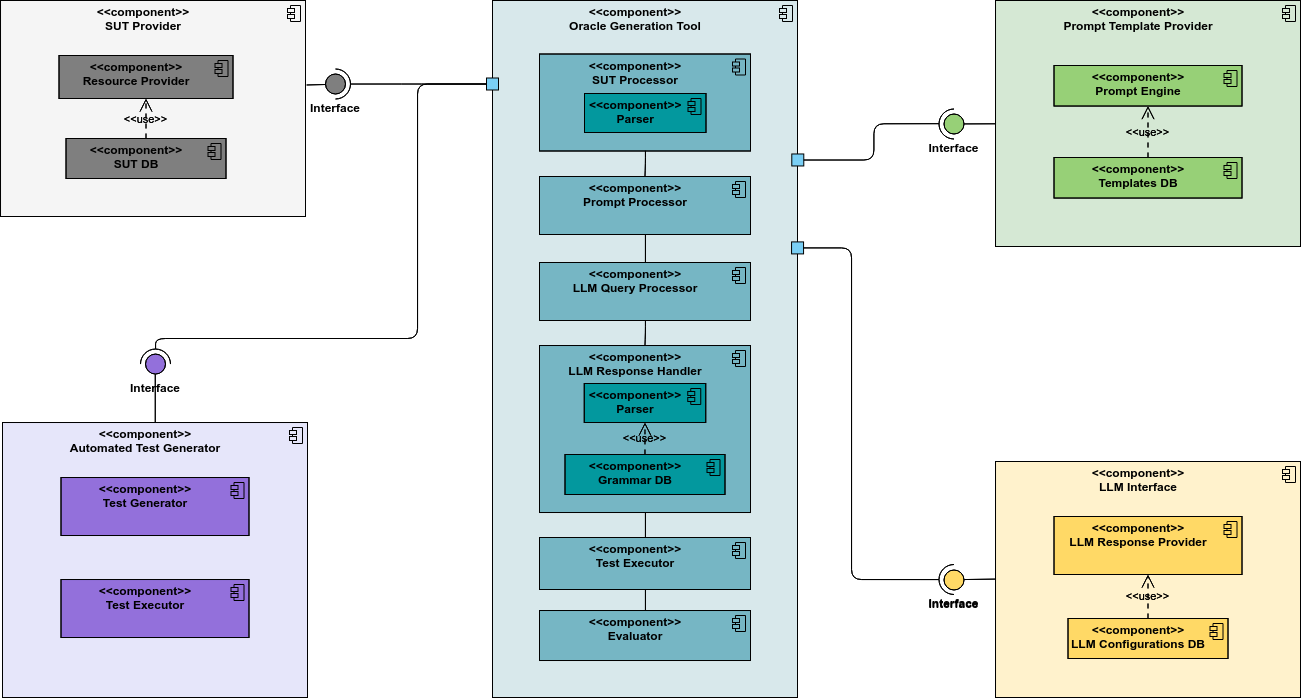
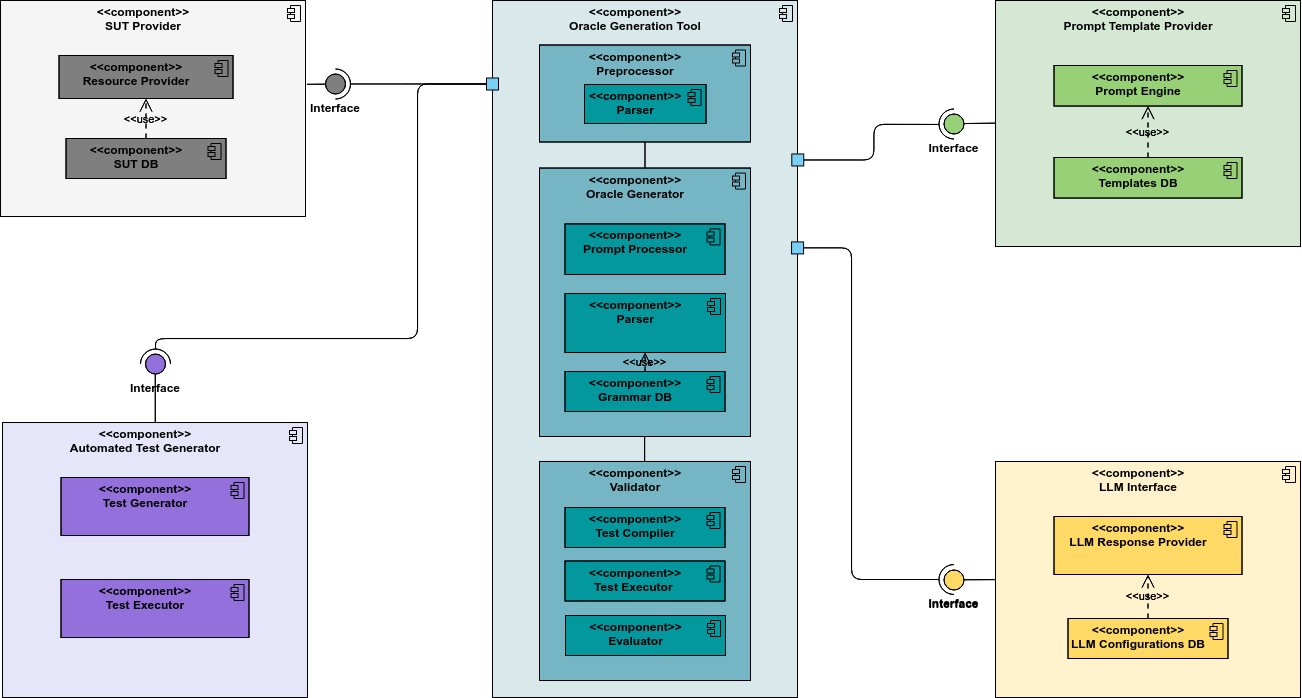
added approach;

diff --git a/llms_for_oracles.tex b/llms_for_oracles.tex
@@ -2,54 +2,140 @@
 \label{cha:evoOracles}
 \vspace{0.4 cm}
 
-In this chapter, we introduce EvoOracle, our approach designed for potential oracle generation using Large Language Models and outline its design. To initiate the process, it requires some preprocessing, including analyzing projects, parsing source code, and extracting the necessary information for use in the generation process. The focal method needs to pass through the tool's components to generate a correct Oracle. The components of EvoOracle and the process overview will be described in the following sections.
+In this chapter, we introduce EvoOracle, our proposed approach designed for potential oracle generation using Large Language Models and describe how the components of the approach have been implemented. 
 
-\section{Components of EvoOracle}
-\label{sec:components}
+\section{Proposed Approach}
+\label{sec:approach}
 \vspace{0.2 cm}
-EvoOracle is designed with a some components what work together to to generate test cases and test Oracles for a given projects. Figure~\ref{fig:evooracle_overview} provides an overview of EvoOracle's key components. Each of the components are explained in details below:
 
-\begin{enumerate}
-    \item \textbf{SUT Processor:} This component takes the SUT and performs analysis on the code by parsing it. Also, it prepares a dataset of all the metadata of the project by mapping all the classes, methods, arguments, code comments etc all the relevant information. Later, it also removes assertions from the test cases and substitutes them with placeholders. 
-    
-    \item \textbf{Automated Test Generator:} This component generates the test suite for each target class based on the specified criterion like line coverage, branch coverage etc, configuration and budget.
-    
-    \item \textbf{Prompt Processor:} Prompt Processor component takes these test cases, now equipped with placeholders and focal methods, and formulates context for LLM prompting.
-    
-    \item \textbf{LLM Query Processor:} The LLM Query Processor component utilizes this context to prompt the LLMs using the LLM interface, later, passing the generated responses to the LLM Response Handler component.
-    
-    \item \textbf{LLM Interface:} The LLM interface provides supports for services from the LLMs. This interface can be connected with models or APIs.
-    
-    \item \textbf{LLM Response Handler:}
-    
-    \item \textbf{Test Executor:} Test Executor compiles and executes the test cases.
-    
-    \item \textbf{Evaluator:} This component follows heuristics to evaluate the quality of the generated tests. Firstly, it checks if the generated test case is syntactically correct. Secondly, it check if the test compiles. Finally, it checks if the test runs without any errors. This is already an indication that the candidate tests are good enough. Another criteria is to run mutation testing on the generated tests.
-\end{enumerate}
+To commence the procedure, EvoOracle necessitates an initial preprocessing phase, which encompasses project analysis, source code parsing, and extraction of essential information essential for the subsequent generation process. The classes and tests undergo a systematic traversal across the tool's integrated components to yield an accurate Oracle. EvoOracle's architecture incorporates several interworking components that collaboratively generate test cases and oracles for designated projects. The illustration in Figure ~\ref{fig:component_diagram} furnishes a comprehensive overview of the key components within EvoOracle. Each of the components are explained in details below:
 
 \begin{figure}[H]
 \centering
 \includegraphics[width=1\textwidth]{images/EvoOracle_ components.png}
-\caption{Components of our proposed tool: EvoOracle}
+\caption{Components of our proposed approach: EvoOracle}
 \label{fig:component_diagram}
 \end{figure}
 
-\section{Workflow}
-\label{sec:workflow}
-\vspace{0.2 cm}
+\begin{enumerate}
+    \item \textbf{Preprocessor:} The Preprocessor is a fundamental component that analyzes the System Under Test (SUT) by parsing its code. It systematically examines each project, extracting vital details about classes and methods, along with their associated metadata. Additionally, the component identifies and establishes connections with test classes generated by the automated test generation component. It facilitates mapping each test case within a test class to the corresponding focal method. The preprocessor incorporates a parser component, which plays a pivotal role in extracting metadata linked to identified classes and methods. By traversing the project folder and locating source files, the parser parses each class file into an Abstract Syntax Tree (AST). This process collects essential information such as class names, signatures, superclasses, bodies, annotations, interfaces, package details, imports, fields, arguments list, constructors, dependencies and variables, method names, return types, and any developer-written comments. While navigating the AST, EvoOracle gathers information at both class and method levels. This parsed code serves a dual purpose: pinpointing test cases and their corresponding focal methods, and enhancing focal methods by incorporating contextual information.
+    
+    \item \textbf{Oracle Generator:} The Oracle Generator is a critical component responsible for processing test cases generated by the Automated Test Generator. This generator produces a test suite for each target class, considering criteria like line coverage, branch coverage, configuration, and budget. With the inclusion of placeholders and focal methods, it prepares the context for LLM prompting. The Oracle Generator adopts a two-step approach, employing specific heuristics to preprocess test cases. This ensures that the test cases are adequately prepared for assertion generation, following these steps:
 
-To initiate the process, we acquire a dataset of Java projects sourced from GitHub. Employing automated test case generation tools such as EvoSuite and Randoop, we systematically create Automated JUnit Test Cases for each project, laying the foundation for EvoOracle's subsequent operations. The tool begins by extracting metadata linked to the identified classes and methods within each project. Subsequently, it mines test cases and establishes mappings with corresponding focal methods extracted from the earlier project analysis. The SUT (System Under Test) Processor component plays a pivotal role in this phase, removing assertions from the test cases and substituting them with placeholders. Following this, the Prompt Processor component takes these test cases, now equipped with placeholders and focal methods, and formulates context for LLM prompting. The LLM Query Processor component utilizes this context to prompt the LLMs, passing the generated responses to the LLM Response Handler component. This handler, in turn, readies the test cases for execution. Finally, the Test Executor compiles and executes the newly generated tests, completing the comprehensive cycle of EvoOracle's oracle generation process.
+    \begin{enumerate}
+        \item \textbf{Removal of Assertions:} All selected test cases undergo the removal of assertions, retaining only the last assertion in case there are multiple assertions using Algorithm~\ref{algorithm_remove_assertion}. This decision is based on the likelihood that reaching the last assertion implies satisfaction of all preceding assertions. This is a reasonable choice which is also seen in the work of Tufano et al. \cite{tufano_generating_2022}. The purpose is to streamline the test cases for further processing.
 
-designed an adaptive focal context generation mechanism, which generates a context containing as much as necessary information for the focal method, while leaving enough space for ChatGPT to produce complete responses. To tackle the second limitation, we implemented a validation component and a repair component. The validation component includes a parser, compiler, and test executor. The repair component consists of rule-based repair and ChatGPT-based repair. Rule-based repair addresses simple errors such as syntax errors and missing import statements. If rule-based repair fails, ChatUniTest resorts to ChatGPT-based repair. It constructs a prompt with an error message, incorrect unit test, and adaptive focal context to obtain the corrected unit test from ChatGPT. If a test remains unfixed after several validation and repair rounds, it is marked as deprecated.
+        \item \textbf{Placeholder Insertion:} Following the removal of additional assertions, the test cases are left with a single assertion. We replace this single assertion with a placeholder using Algorithm~\ref{algorithm_placeholder_insertion}. This placeholder serves as a temporary marker and will be subsequently replaced with assertions generated by the Large Language Models.
 
-\begin{figure}[H]
+        \item \textbf{Prompt Templates:} This component utilizes prompt templates in creating a focal context tailored for each Class Under Test (CUT) and its corresponding Method Under Test (MUT). These templates serve as the foundation for replacing the contextual placeholders with the specific contexts of interest. This dynamic approach ensures that the LLMs receive targeted and meaningful prompts, enhancing their understanding of the given code context and enabling them to generate assertions with precision.
+
+        \item \textbf{Prompt Generation Algorithm:} To create effective prompts for the Large Language Models, this component gathers information to build the context for a test case that was prepared in the preprocessing phase. This information includes key details about the class under test, methods under test, and various method attributes such as Constructor signature, Class Signature, parameters, Invoked Method Signature, dependencies, return type, developer comments, source code for the test case, package, imports, Fields, and getter/setter signature. We carefully consider all invoked methods and dependencies encapsulated within the test case. To improve the Oracles generated by the automated test generation tools, we propose the inclusion of LLMs into the test generation process. LLM Interface component provides empowers developers to tailor their LLM choices, ensuring compatibility and aligning with their project requirements and provides response. In instances where the LLM response faces challenges such as token limit exceeds, we dynamically adjust the context size. An iterative process is followed as shown in Algorithm~\ref{algorithm_prompt_generation} of generating prompts for the LLM, involving multiple rounds. Each round refines the prompt based on the LLM's response and aims to address potential challenges like token limit exceedance. The trimming process, controlled by conditional statements, adjusts the size of critical elements such as method details and test method code. This adaptive approach ensures that the prompt remains concise while retaining essential contextual information. The code systematically handles different trimming scenarios in each round, progressively refining the prompt to strike a balance between informativeness and LLM response feasibility. The overall mechanism involves generating messages from prompt templates, seeking LLM responses, and dynamically adjusting the prompt for subsequent iterations, all of which contribute to an effective and tailored interaction with the LLM.
+
+        \begin{algorithm}
+        \caption{Algorithm for \texttt{Removing all assertions but last}}
+        \label{algorithm_remove_assertion}
+        \begin{algorithmic}[1]
+        \Function{remove\_all\_assertions\_but\_last}{$\text{source\_code}$}
+            \State $\text{assertion\_patterns} \gets$ [\texttt{...}] \Comment{List of assertion patterns}
+            \State $\text{assertions} \gets \text{FIND ALL(assertion\_pattern, source\_code)}$
+        
+            \If{\text{NO assertions}}
+                \State \textbf{return} $\text{source\_code}$
+            \EndIf
+        
+            \State $\text{replaced\_assertions} \gets []$
+        
+            \For{$i$ \textbf{in} \text{range}(\text{len(assertions) - 1})}
+                \State $\text{source\_code} \gets \text{SUBSTITUTE (assertion\_pattern, "", source\_code, count=1)}$
+                % \State $\text{replaced\_assertions.append(assertions[i][0] + assertions[i][1] + "();")}$  % Uncomment this line if you want to keep track of removed assertions
+            \EndFor
+        
+            \State \textbf{return} $\text{source\_code}$
+        \EndFunction
+        \end{algorithmic}
+        \end{algorithm}
+        
+        \begin{algorithm}
+        \caption{Algorithm for \texttt{Placeholder insertion}}
+        \label{algorithm_placeholder_insertion}
+        \begin{algorithmic}[1]
+        \Function{replace\_assertions}{$\text{source\_code}$}
+            \State $\text{assertion\_patterns} \gets$ [\texttt{...}] \Comment{List of assertion patterns}
+            \State $\text{replaced\_assertions} \gets$ [] \Comment{List to store replaced assertions}
+        
+            \For{$\text{pattern}$ \textbf{in} $\text{assertion\_patterns}$}
+                \Function{replacement}{$\text{match}$}
+                    \State $\text{matched\_text} \gets \text{TRY MATCH}$
+                    \State $\text{replaced\_assertions.append(matched\_text)}$
+                    \State \textbf{return} \texttt{(ASSERTION\_PLACEHOLDER)}
+                \EndFunction
+        
+                \State $\text{source\_code} \gets \text{SUBSTITUTE (pattern, replacement, source\_code)}$
+            \EndFor
+        
+            \State \textbf{return} $\text{source\_code, replaced\_assertions}$
+        \EndFunction
+        \end{algorithmic}
+        \end{algorithm}
+        
+        \begin{algorithm}
+            \caption{Prompt Generation Algorithm}
+            \label{algorithm_prompt_generation}
+            \begin{algorithmic}[1]
+                \Function{generate\_prompt}{$\text{context}$}
+                    \State $\text{rounds}, \text{max\_attempts}, \text{prompt\_template} \gets []$ \Comment{No. of Iterations, attempts, prompt template}
+                    \State $\text{prompts\_and\_responses} \gets []$
+                    
+                    \While{$\text{rounds} < \text{max\_attempts}$}
+                        \State $\text{steps}, \text{rounds} \gets 0, \text{rounds} + 1$
+                        \If{$\text{rounds} > 2$}
+                            \State $\text{trimmed\_context} \gets \text{trim\_context(context, 3)}$ \Comment{Trim context by reducing Method depth}
+                        \EndIf
+                        
+                        \If{$\text{rounds} > 1$}
+                            \State $\text{trimmed\_context} \gets \text{trim\_context(context, 5)}$ \Comment{Trim context by reducing Method depth}
+                        \EndIf
+                        
+                        \State $\text{messages} \gets \text{generate\_messages(prompt\_template, trimmed\_context)}$
+                        
+                        \State $\text{llm\_result} \gets \text{ask\_openLLM(messages)}$
+                        \State $\text{prompts\_and\_responses.append(\{"prompt": messages, "response": llm\_result\})}$
+                        
+                        \State $\text{source\_code, replaced\_assertions} \gets \text{replace\_assertions(source\_code)}$
+                        
+                        \If{$\text{assertions}$ NOT GENERATED}
+                            \State $\text{context} \gets \text{update\_prompt\_and\_ask\_again(context)}$
+                        \EndIf
+                    \EndWhile
+                    
+                    \State $\text{print\_and\_save\_results(prompts\_and\_responses)}$
+                \EndFunction
+            \end{algorithmic}
+        \end{algorithm}
+        
+        Throughout each iteration, we analyze LLM responses to capture assertions using the specified Assertion regex. When the parsing operation successfully identifies an assertion, we advance to the subsequent phase of crafting the test case with EvoOracle assertion. In cases where the assertion parsing is unsuccessful, we continue the iteration process until we reach the budget limit specified in the configuration. 
+    \end{enumerate}
+
+    \begin{figure}[H]
     \centering
     \includegraphics[width=1\linewidth]{images/evooracle_overview.png}
     \caption{Overview of EvoOracle}
     \label{fig:evooracle_overview}
-\end{figure}
+    \end{figure}
 
+    \item \textbf{Validator:} This component follows heuristics to evaluate the quality of the generated tests. After receiving a response from LLM interface, EvoOracle extracts and validates the assertions while selecting a different prompt modifications if any errors are detected during the validation process. 
+    \\
+    \textbf{Extract:} We follow a generalized approach for extracting tests from responses. EvoOracle employs regular expressions to identify strings that matches with a set of predefined assertion formats. If EvoOracle fails to extract any assertions from LLM’s response, the whole process starts again for the next attempt with a modified prompt. Otherwise, it is considered that there is no syntactic error and the assertion is replaced back from the test case we prepared earlier.
+    \\
+    \textbf{Compile and run:} In this step, EvoOracle compiles and executes the test. If the test fails to compile or encounters errors during execution, it proceeds to the next attempt. A test is considered passed only if it is free from syntax errors, compiles successfully, runs without errors.
+    \\
+    \textbf{Mutation testing:} If a test compiles and runs without any errors, it is already an indication that the candidate tests are good enough. Another criteria is to run mutation testing on the generated tests and select only those tests which has higher mutation score.
+\end{enumerate}
 
+Figure~\ref{fig:evooracle_overview} shows the overview of EvoOracle's components in action.
 
-In the following sub-chapters, we will delve into the intricacies of each step, providing detailed descriptions and insights into the nuances of EvoOracle's comprehensive process.
+\section{Implementation}
+\label{sec:implementation}
+\vspace{0.2 cm}
 
+The source code for our implementation of the tool can be found in the added references~\cite{evooracle_github}.

diff --git a/experiments.tex b/experiments.tex
@@ -2,12 +2,12 @@
 \label{cha:experiments}
 \vspace{0.4 cm}
 
-In this chapter, we're going to delve into the experiments we've crafted to put our approach into action and assess its performance. We describe the design, implementation, and evaluation steps, providing a detailed account of each experiment. These experiments are crucial to demonstrating the effectiveness and practicality of our approach in real-world scenarios. The source code for our implementation of the tool can be found in the added references~\cite{evooracle_github}.
+In this chapter, we're going to delve into the experiments we've crafted to put our approach into action and assess its performance. We describe the design, implementation, and evaluation steps, providing a detailed account of each experiment. These experiments are crucial to demonstrating the effectiveness and practicality of our approach in real-world scenarios.
 
 \section{Data Collection}
 \label{sec:data_collection}
 \vspace{0.2 cm}
-Within this sub-chapter, we will elaborate on our methodology for assembling a collection of Java projects. We outline the procedures involved in generating test cases using automated tools such as EvoSuite and Randoop\cite{noauthor_randoop_nodate}, shedding light on the meticulous steps taken to ensure comprehensive test coverage. Additionally, we will discuss the meticulous process of preparing corresponding focal methods, elucidating how we identify and associate the specific methods targeted by each test case. This step is crucial in establishing a robust foundation for subsequent analyses and evaluations within the realm of software testing and development.
+Within this sub-chapter, we will elaborate on our methodology for assembling a collection of Java projects. We outline the procedures involved in generating test cases using automated tools such as EvoSuite and Randoop\cite{noauthor_randoop_nodate}, shedding light on the steps taken to ensure comprehensive test coverage. Additionally, we will discuss the process of preparing corresponding focal methods, elucidating how we identify and associate the specific methods targeted by each test case. This step is crucial in establishing a robust foundation for subsequent analyses and evaluations within the realm of software testing and development.
 
 \vspace{0.1 cm}
 \subsection{Java Projects Selection}
@@ -276,40 +276,40 @@ To create effective prompts for the Large Language Models, we gather information
 
 We follow an iterative process as shown in Algorithm~\ref{algorithm_prompt_generation} of generating prompts for the LLM, involving multiple rounds. Each round refines the prompt based on the LLM's response and aims to address potential challenges like token limit exceedance. The trimming process, controlled by conditional statements, adjusts the size of critical elements such as method details and test method code. This adaptive approach ensures that the prompt remains concise while retaining essential contextual information. The code systematically handles different trimming scenarios in each round, progressively refining the prompt to strike a balance between informativeness and LLM response feasibility. The overall mechanism involves generating messages from prompt templates, seeking LLM responses, and dynamically adjusting the prompt for subsequent iterations, all of which contribute to an effective and tailored interaction with the LLM.
 
-\begin{algorithm}
-    \caption{Prompt Generation Algorithm}
-    \label{algorithm_prompt_generation}
-    \begin{algorithmic}[1]
-        \Function{generate\_prompt}{$\text{context}$}
-            \State $\text{rounds}, \text{max\_attempts}, \text{prompt\_template} \gets 0, 3, \text{...}$
-            \State $\text{prompts\_and\_responses} \gets []$
+% \begin{algorithm}
+%     \caption{Prompt Generation Algorithm}
+%     \label{algorithm_prompt_generation}
+%     \begin{algorithmic}[1]
+%         \Function{generate\_prompt}{$\text{context}$}
+%             \State $\text{rounds}, \text{max\_attempts}, \text{prompt\_template} \gets 0, 3, \text{...}$
+%             \State $\text{prompts\_and\_responses} \gets []$
             
-            \While{$\text{rounds} < \text{max\_attempts}$}
-                \State $\text{steps}, \text{rounds} \gets 0, \text{rounds} + 1$
-                \If{$\text{rounds} > 2$}
-                    \State $\text{trimmed\_context} \gets \text{trim\_context(context, 3)}$
-                \EndIf
+%             \While{$\text{rounds} < \text{max\_attempts}$}
+%                 \State $\text{steps}, \text{rounds} \gets 0, \text{rounds} + 1$
+%                 \If{$\text{rounds} > 2$}
+%                     \State $\text{trimmed\_context} \gets \text{trim\_context(context, 3)}$
+%                 \EndIf
                 
-                \If{$\text{rounds} > 1$}
-                    \State $\text{trimmed\_context} \gets \text{trim\_context(context, 5)}$
-                \EndIf
+%                 \If{$\text{rounds} > 1$}
+%                     \State $\text{trimmed\_context} \gets \text{trim\_context(context, 5)}$
+%                 \EndIf
                 
-                \State $\text{messages} \gets \text{generate\_messages(prompt\_template, trimmed\_context)}$
+%                 \State $\text{messages} \gets \text{generate\_messages(prompt\_template, trimmed\_context)}$
                 
-                \State $\text{llm\_result} \gets \text{ask\_openLLM(messages)}$
-                \State $\text{prompts\_and\_responses.append(\{"prompt": messages, "response": llm\_result\})}$
+%                 \State $\text{llm\_result} \gets \text{ask\_openLLM(messages)}$
+%                 \State $\text{prompts\_and\_responses.append(\{"prompt": messages, "response": llm\_result\})}$
                 
-                \State $\text{source\_code, replaced\_assertions} \gets \text{replace\_assertions(source\_code)}$
+%                 \State $\text{source\_code, replaced\_assertions} \gets \text{replace\_assertions(source\_code)}$
                 
-                \If{$\text{assertions}$}
-                    \State $\text{context} \gets \text{update\_prompt\_and\_ask\_again(context)}$
-                \EndIf
-            \EndWhile
+%                 \If{$\text{assertions}$}
+%                     \State $\text{context} \gets \text{update\_prompt\_and\_ask\_again(context)}$
+%                 \EndIf
+%             \EndWhile
             
-            \State $\text{print\_and\_save\_results(prompts\_and\_responses)}$
-        \EndFunction
-    \end{algorithmic}
-\end{algorithm}
+%             \State $\text{print\_and\_save\_results(prompts\_and\_responses)}$
+%         \EndFunction
+%     \end{algorithmic}
+% \end{algorithm}
 
 Throughout each iteration, we analyze LLM responses to capture assertions using the specified Assertion regex, as outlined in Listing~\ref{assertions_regex}. When the parsing operation successfully identifies an assertion, we advance to the subsequent phase of crafting the test case with EvoOracle assertion. In cases where the assertion parsing is unsuccessful, we continue the iteration process until we reach the budget limit specified in the configuration. 
 

diff --git a/Shaker_Mahmud_Khandaker_DS_2023.tex b/Shaker_Mahmud_Khandaker_DS_2023.tex
@@ -34,7 +34,7 @@
 \usepackage{algpseudocode}
 \usepackage{listings}
 \usepackage{xcolor}
-
+\usepackage[hidelinks]{hyperref}
 
 %New colors defined below
 \definecolor{codegreen}{rgb}{0,0.6,0}
